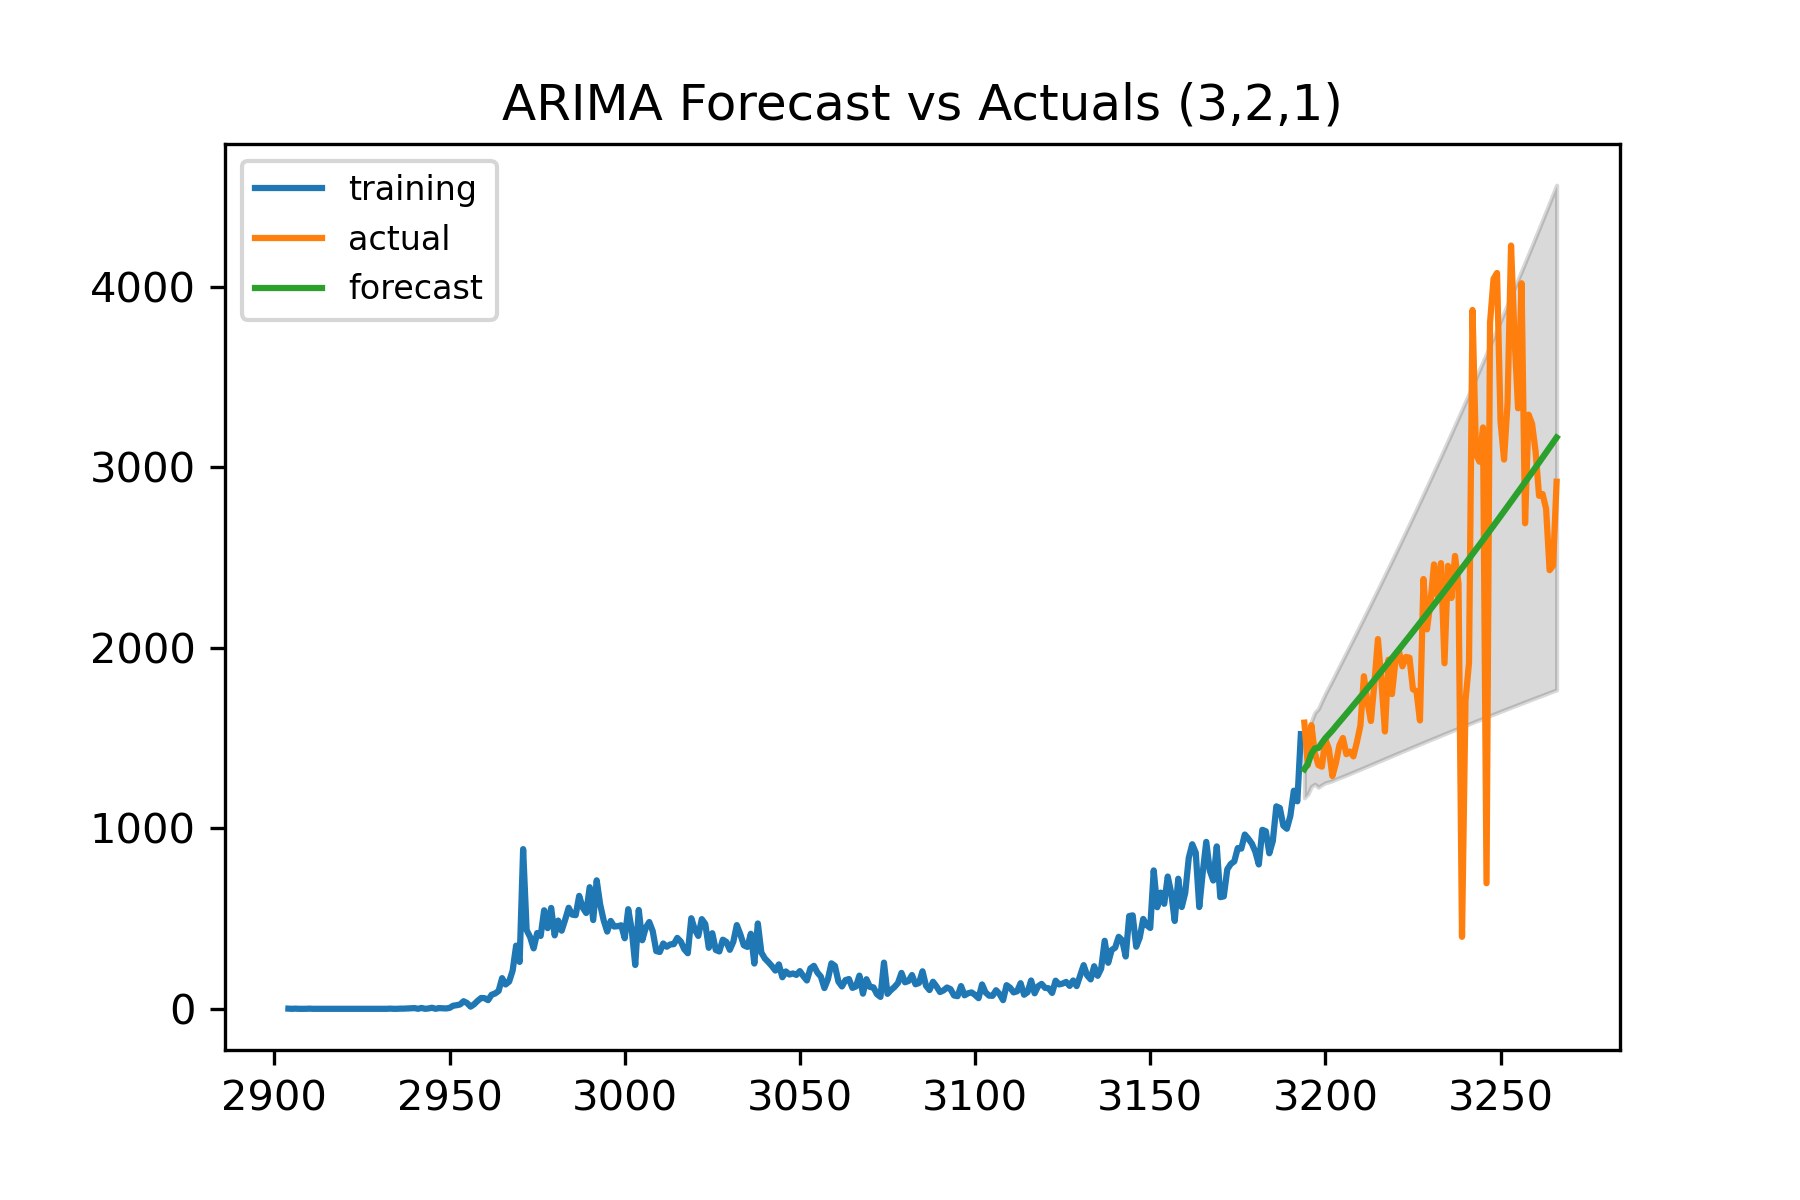
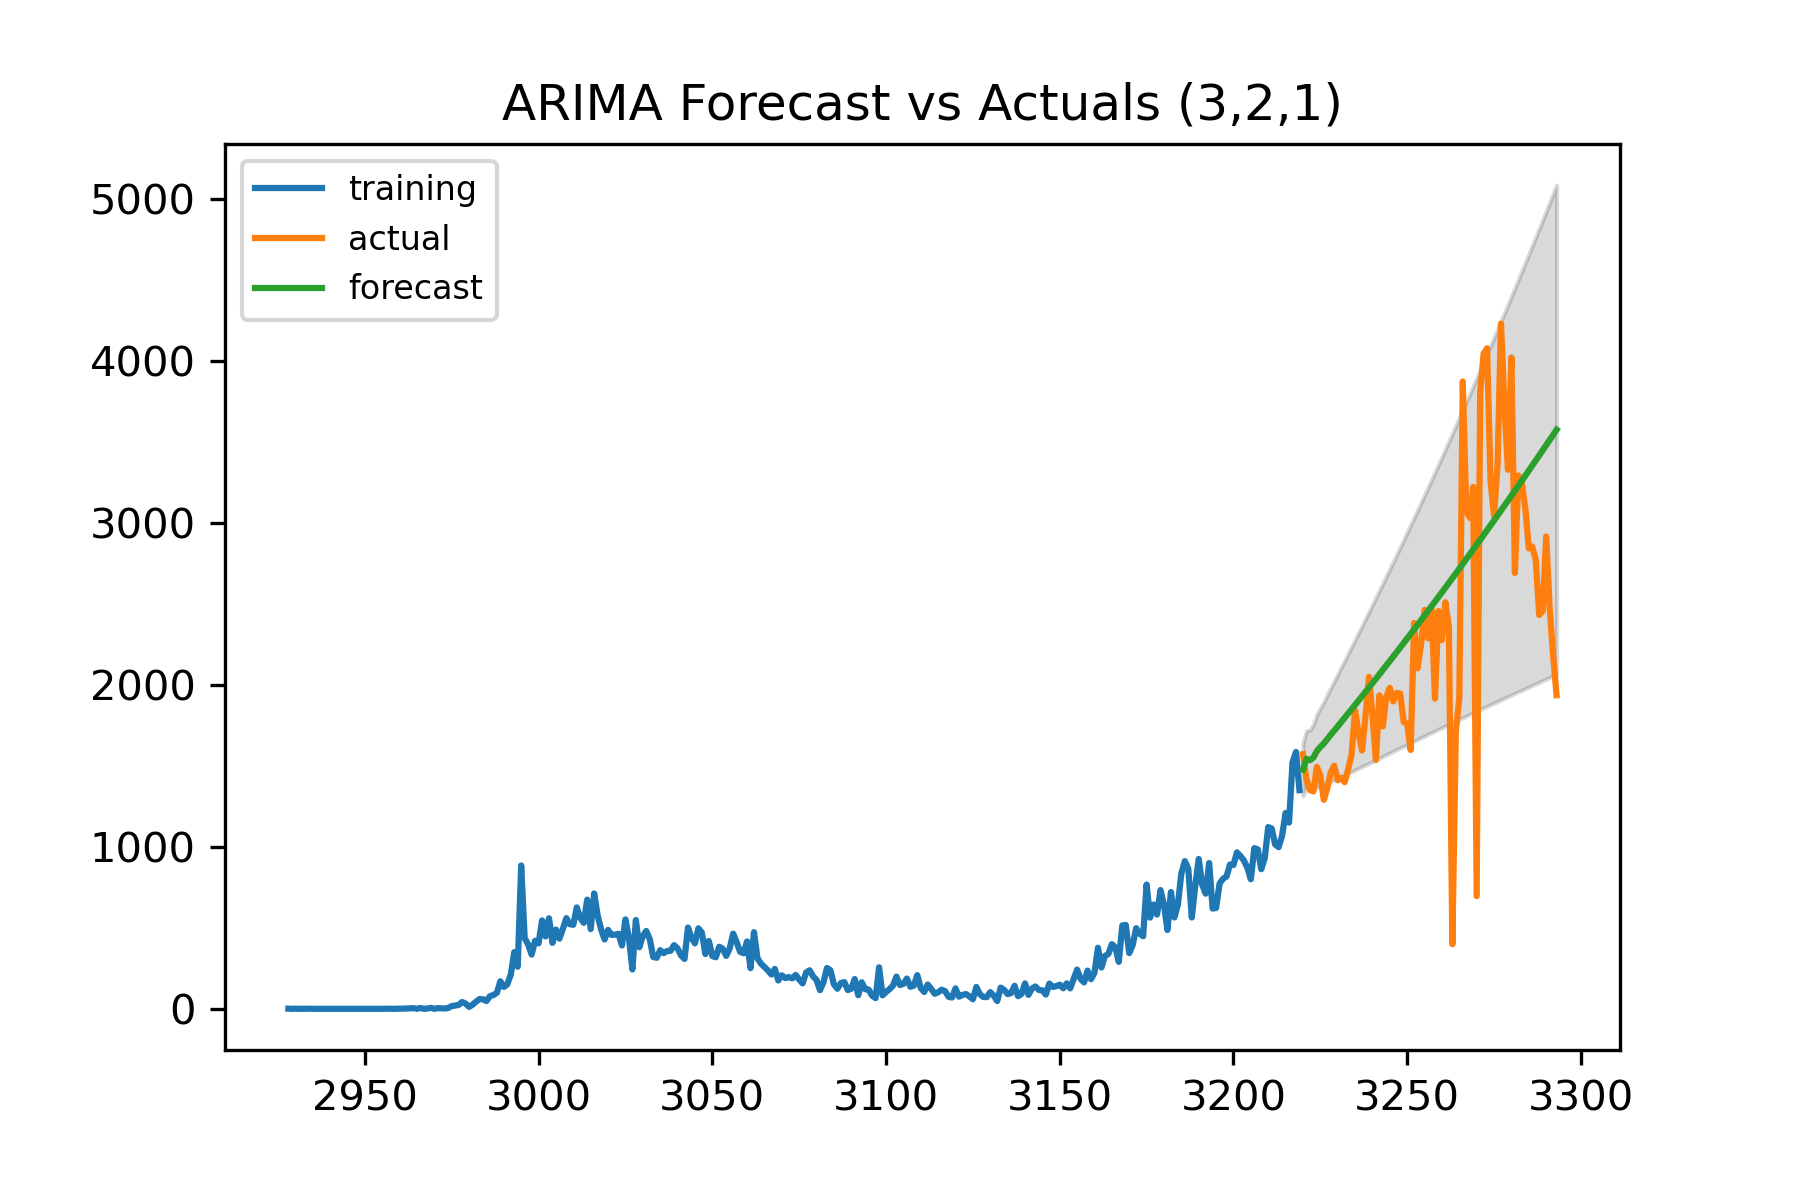
trying arima

diff --git a/covid_analysis.py b/covid_analysis.py
@@ -19,6 +19,7 @@ from statsmodels.tsa.stattools import adfuller
 from statsmodels.tsa.seasonal import seasonal_decompose
 import scipy.fftpack as fftp
 import statsmodels.api as sm
+import dtw
 
 os.chdir('C:\\Users\\Jerry\\Desktop\\Jerry\\projects\\covid19')
 os.listdir()
@@ -120,7 +121,41 @@ fig.legend([x1, x2, x3, x4], labels=['total cases','active cases', 'recovered', 
 plt.savefig('prov_cases_active.png', format='png', dpi=300)
 
 #%%
-# we model each 2-week time window with an exponential growth function and get its growthrate in the exponent
+# we look at the inactivity time by shifting the recovered+deaths curve and fit it to the cumulative
+inactive=canada_covid.cumulative_recovered.add(canada_covid.cumulative_deaths)[180:]
+x=matplotlib.dates.date2num(canada_covid.date)[180:]
+plt.plot_date(x, inactive, linestyle='-', linewidth=2, marker=None)
+plt.plot_date(x, canada_covid.cumulative_cases[180:], linestyle='-', linewidth=1, marker=None)
+# yikes, in July a change in the definition of 'recovered' has really bumped the numbers, we do the shift fit after
+#let's shift it! we calculate the rmse for each shift and find the min rmse!
+def shift_fit(shift_data, fit_data, shift_min, shift_max):
+    rmse=pd.DataFrame(columns=['n','rmse'])
+    for n in range(shift_min, shift_max+1):
+        diff=fit_data.rsub(shift_data.shift(n))
+        diff=diff.dropna()
+        diff=np.sqrt((diff**2).mean())
+        rmse=rmse.append({'n':n,'rmse':diff}, ignore_index=True)
+    return rmse
+
+test_shift=shift_fit(inactive, canada_covid.cumulative_cases[180:], -21, 0)
+# rmse plot
+plt.rcParams.update({'font.size': 10})
+x1=plt.plot(test_shift.n, test_shift.rmse)
+x2=plt.axvline(x=-12, linestyle='--', c='r')
+plt.title('RMSE of shifting fit')
+plt.xlabel('Days')
+plt.ylabel('RMSE')
+plt.legend([x1, x2], labels=['RMSE','minimum at x = -12'], loc='lower right')
+plt.savefig('inactive_shift_fit_rmse.png', format='png', dpi=300)
+
+x1=plt.plot_date(x, inactive.shift(-12), linestyle='-', linewidth=3, marker=None, alpha=0.7)
+x2=plt.plot_date(x, canada_covid.cumulative_cases[180:], linestyle='-', linewidth=3, marker=None, alpha=0.7)
+plt.title('shifted cumulative recovered and deaths vs cumulative cases for Canada', fontsize=9)
+plt.legend([x1, x2], labels=['shifted cumulative recovered and deaths ','cumulative cases'], loc='upper left')
+plt.savefig('inactive_shifted_cumulative.png', format='png', dpi=300)
+## wow! it fits! so 12 days is the mean inactive period!
+#%%
+# we model each mean inactivity period (12 days) time window with an exponential growth function and get its growthrate in the exponent
 fig, axs=plt.subplots(4,4)
 plt.rc('xtick', labelsize=2.5)
 i=0
@@ -161,44 +196,6 @@ fig.suptitle('Transmission Rates as estimated with exponential growth by provinc
     
 plt.savefig('prov_equivalent_exp.png', format='png', dpi=300)
 
-#%% Susprciously, the number of active cases and the number of confirmed cases have 
-# almost the same shapes, but with a constant factor difference and bit of a lag
-# I suspeect that it's because of the recovery period being a few days long with normal distribution. 
-# irst, we have to look at the active cases vs no-longer-active cases (recovered + deaths) to get a sense of mean recovery time
-inactive=canada_covid.cumulative_recovered.add(canada_covid.cumulative_deaths)[180:]
-x=matplotlib.dates.date2num(canada_covid.date)[180:]
-plt.plot_date(x, inactive, linestyle='-', linewidth=2, marker=None)
-plt.plot_date(x, canada_covid.cumulative_cases[180:], linestyle='-', linewidth=1, marker=None)
-# yikes, in July a change in the definition of 'recovered' has really bumped the numbers, we do the shift fit after
-#let's shift it! we calculate the rmse for each shift and find the min rmse!
-def shift_fit(shift_data, fit_data, shift_min, shift_max):
-    rmse=pd.DataFrame(columns=['n','rmse'])
-    for n in range(shift_min, shift_max+1):
-        diff=fit_data.rsub(shift_data.shift(n))
-        diff=diff.dropna()
-        diff=np.sqrt((diff**2).mean())
-        rmse=rmse.append({'n':n,'rmse':diff}, ignore_index=True)
-    return rmse
-
-test_shift=shift_fit(inactive, canada_covid.cumulative_cases[180:], -21, 0)
-# rmse plot
-plt.rcParams.update({'font.size': 10})
-x1=plt.plot(test_shift.n, test_shift.rmse)
-x2=plt.axvline(x=-12, linestyle='--', c='r')
-plt.title('RMSE of shifting fit')
-plt.xlabel('Days')
-plt.ylabel('RMSE')
-plt.legend([x1, x2], labels=['RMSE','minimum at x = -12'], loc='lower right')
-plt.savefig('inactive_shift_fit_rmse.png', format='png', dpi=300)
-
-x1=plt.plot_date(x, inactive.shift(-12), linestyle='-', linewidth=3, marker=None, alpha=0.7)
-x2=plt.plot_date(x, canada_covid.cumulative_cases[180:], linestyle='-', linewidth=3, marker=None, alpha=0.7)
-plt.title('shifted cumulative recovered and deaths vs cumulative cases for Canada', fontsize=9)
-plt.legend([x1, x2], labels=['shifted cumulative recovered and deaths ','cumulative cases'], loc='upper left')
-plt.savefig('inactive_shifted_cumulative.png', format='png', dpi=300)
-## wow! it fits! so 12 days is the mean inactive period!
-
-
 #%% fourier analysis
 test=covid[covid.province=='Ontario']
 trans=fftp.fft(test.cases)
@@ -221,11 +218,12 @@ plt.grid(True)
 test=covid[covid.province=='Ontario']
 test.loc[test.cases==0,'cases']=1
 test.index=test.date
-decomp = seasonal_decompose(test.cases, model='additive', freq=17)
+decomp = seasonal_decompose(test.cases, model='additive', freq=7)
 decomp.plot()
 
+
 #%%
-test=covid[covid.province=='Quebec']
+test=covid[covid.province=='Ontario']
 def differencing(x,d):
     if d==0:
         return x
@@ -271,9 +269,12 @@ def test_stationarity(timeseries, window = 7, cutoff = 0.01):
 
 
 
-def train_test(x, train_size):
-    length=int(np.floor(len(x)*train_size))
-    return([x[:length], x[length:]])
+def train_test(x, train_size, mode='r'):
+    if mode=='r':
+        length=int(np.floor(len(x)*train_size))
+        return([x[:length], x[length:]])
+    elif mode=='n':
+        return([x[:len(x)-train_size], x[len(x)-train_size:]])
 
 def pq_search(x, maxp, mindif, maxdif, maxq, pval_cut):
     final=[]
@@ -293,16 +294,94 @@ def pq_search(x, maxp, mindif, maxdif, maxq, pval_cut):
         final.append(model_data)
     return(final)
 
-####### cases
+def fast_log(x):
+    x=x.replace(0,1)
+    return np.log(x)
+
+def arima_res_plot(x):
+    res = pd.DataFrame(x.resid)
+    fig, ax = plt.subplots(1,2)
+    res.plot(title="Residuals", ax=ax[0])
+    res.plot(kind='kde', title='Density', ax=ax[1])
+    fig.tight_layout()
+    print('mean: '+str(res.mean()[0])+' std: '+str(res.std()[0]))
+    
+def arima_pred_plot(x, train_data, test_data, alpha, mode='n'):
+    fc, se, conf = x.forecast(len(test_data), alpha=alpha)  # 95% conf
+    fc_series = pd.Series(fc, index=test_data.index)
+    lower_series = pd.Series(conf[:, 0], index=test_data.index)
+    upper_series = pd.Series(conf[:, 1], index=test_data.index)
+    
+    if mode=='exp':
+        plt.plot(np.exp(train_data), label='training')
+        plt.plot(np.exp(test_data), label='actual')
+        plt.plot(np.exp(fc_series), label='forecast')
+        plt.fill_between(np.exp(lower_series.index), np.exp(lower_series), np.exp(upper_series), 
+                 color='k', alpha=.15)
+        plt.legend(loc='upper left', fontsize=8)
+        return
+    # Plot
+    plt.plot(train_data, label='training')
+    plt.plot(test_data, label='actual')
+    plt.plot(fc_series, label='forecast')
+    plt.fill_between(lower_series.index, lower_series, upper_series, 
+                     color='k', alpha=.15)
+    plt.legend(loc='upper left', fontsize=8)
+############################# cases ###################################
 test=covid[covid.province=='Ontario']
-test=pd.DataFrame({'cases':itrans.real[60:]})
-test.cases=test.cases.replace(0,1)
-test.loc[test.cases.le(1)]=1
-test.cases=np.log(test.cases)
-test_stationarity(differencing(test.cases, 1), window=7, cutoff=0.01) # cases order is 1
-plot_pacf(differencing(test.cases,0)) ## looks like AR(2)
-plot_acf(differencing(test.cases,0)) ## looks like MA(1)
-cases_arima=ARIMA(test.cases, (2,1,2)).fit(disp=False) #412
+########## first try, no smooting
+simple_plot(test.cases) 
+test_stationarity(differencing(test.cases, 1), window=7, cutoff=0.01)# looks very bad, variance is wild
+train_data, test_data=train_test(test.cases, 60, 'n') # we try to predict about 2-month's data
+plot_pacf(differencing(train_data,1)) ## looks like AR(2)
+plot_acf(differencing(test_data,1)) ## looks like MA(1)
+search=pq_search(train_data, 4, 1, 1, 4, 0.05) #search for optimal pq
+search[0] # looks like pdq=112 is the one with lowest aic
+arima_model=ARIMA(train_data, (1,1,2)).fit(disp=False)
+print(arima_model.summary())
+arima_res_plot(arima_model) #mean of residual almost 0, std is not bad
+arima_pred_plot(arima_model, train_data, test_data, 0.05) # the predictions are real bad, try something else
+
+# try logging,
+log_cases=fast_log(test.cases)
+test_stationarity(differencing(log_cases, 1), window=7, cutoff=0.01) 
+# a little better but still pretty bad variance, worth a try, the end is gonna be disastrous I bet
+train_data, test_data=train_test(log_cases, 60, 'n') # we try to predict about 2-month's data
+plot_pacf(differencing(train_data,1)) ## looks like AR(2)
+plot_acf(differencing(test_data,1)) ## looks like MA(1)
+search=pq_search(train_data, 4, 1, 1, 4, 0.05) #search for optimal pq
+search[0] # looks like pdq=311 is the one with lowest aic
+arima_model=ARIMA(train_data, (3,1,1)).fit(disp=False)
+print(arima_model.summary())
+arima_res_plot(arima_model) #mean of residual almost 0, std is not bad
+arima_pred_plot(arima_model, train_data, test_data, 0.05, mode='exp') # the predictins are not bad but it's not good either
+
+
+
+#we should smooth it out a bit, especially for the end
+
+################# try averages
+ma_cases=test.cases.rolling(7).mean().dropna()
+simple_plot(ma_cases)  #much smoother, but are the variances?
+train_data, test_data=train_test(ma_cases, 60, 'n') # we try to predict about two month's data
+test_stationarity(differencing(train_data, 2), window=7, cutoff=0.01) 
+plot_pacf(differencing(train_data,2)) ## looks like AR(2)
+plot_acf(differencing(test_data,2)) ## looks like MA(1)
+search=pq_search(train_data, 5, 2, 2, 5, 0.05) #search for optimal pq
+search[0] # looks like pdq=324 is the one with lowest aic
+arima_model=ARIMA(train_data, (3,2,5)).fit(disp=False)
+print(arima_model.summary())
+arima_res_plot(arima_model) #mean of residual almost 0, std is not bad
+arima_pred_plot(arima_model, train_data, test_data, 0.05) # the predictins are indeed horrific 
+
+# trying different smoothing techniques, gotta get rid of the final variance disturbance somehow
+
+
+
+
+plot_pacf(differencing(log_cases,1)) ## looks like AR(2)
+plot_acf(differencing(log_cases,1)) ## looks like MA(1)
+cases_arima=ARIMA(log_cases, (2,1,2)).fit(disp=False) #412
 print(cases_arima.summary())
 
 res = pd.DataFrame(cases_arima.resid)
@@ -315,17 +394,14 @@ res.std() #244, not too bad
 
 cases_arima.plot_predict(dynamic=False) # nice, let's validate it with 8/2 train/test
 
-train_data, test_data=train_test(test.cases, 0.8)
-cases_arima=ARIMA(train_data, (2,1,1)).fit(disp=False)
-print(cases_arima.summary()) # BAD Pvalues. Let's do a search for optimal pq
-
-search=pq_search(train_data, 3, 1, 2, 3, 0.05) # looks like 1,1,2 or 3,2,1
+train_data, test_data=train_test(log_cases, 0.8)
+search=pq_search(train_data, 4, 1, 2, 4, 0.01) # looks like 4,1,2
 search[1]
 #let's see their performances
-cases_arima=ARIMA(train_data, (2,2,1)).fit(disp=False)
+cases_arima=ARIMA(train_data, (3,2,1)).fit(disp=False)
 print(cases_arima.summary())
 # Make as pandas series
-fc, se, conf = cases_arima.forecast(len(test_data), alpha=0.05)  # 95% conf
+fc, se, conf = cases_arima.forecast(len(test_data), alpha=0.1)  # 95% conf
 fc_series = pd.Series(fc, index=test_data.index)
 lower_series = pd.Series(conf[:, 0], index=test_data.index)
 upper_series = pd.Series(conf[:, 1], index=test_data.index)
@@ -342,11 +418,11 @@ plt.legend(loc='upper left', fontsize=8)
 plt.savefig('cases_forecast_321.png', format='png', dpi=300)
 
 res=test_data.rsub(fc)
-(res**2).mean() # 221 has the lowest ms
+(res**2).mean() # 1,1,2=4.73E5  3,2,1=4.27E5, looks like 3,2,1 is a better model
+plt.plot(np.arange(0,len(test_data)),res)
 
-cases_arima.resid
-sm.stats.acorr_ljungbox(res, lags=3)
-plot_pacf(res)
+sm.stats.acorr_ljungbox(cases_arima.resid, lags=3) # all residuals are above
+plot_pacf(cases_arima.resid) # looks like residuals are related in a very long run, but not in short term, disregarded
 
 ####### active_cases
 test_stationarity(differencing(test.active_cases, 2), window=7, cutoff=0.01) # active_cases order is 2
